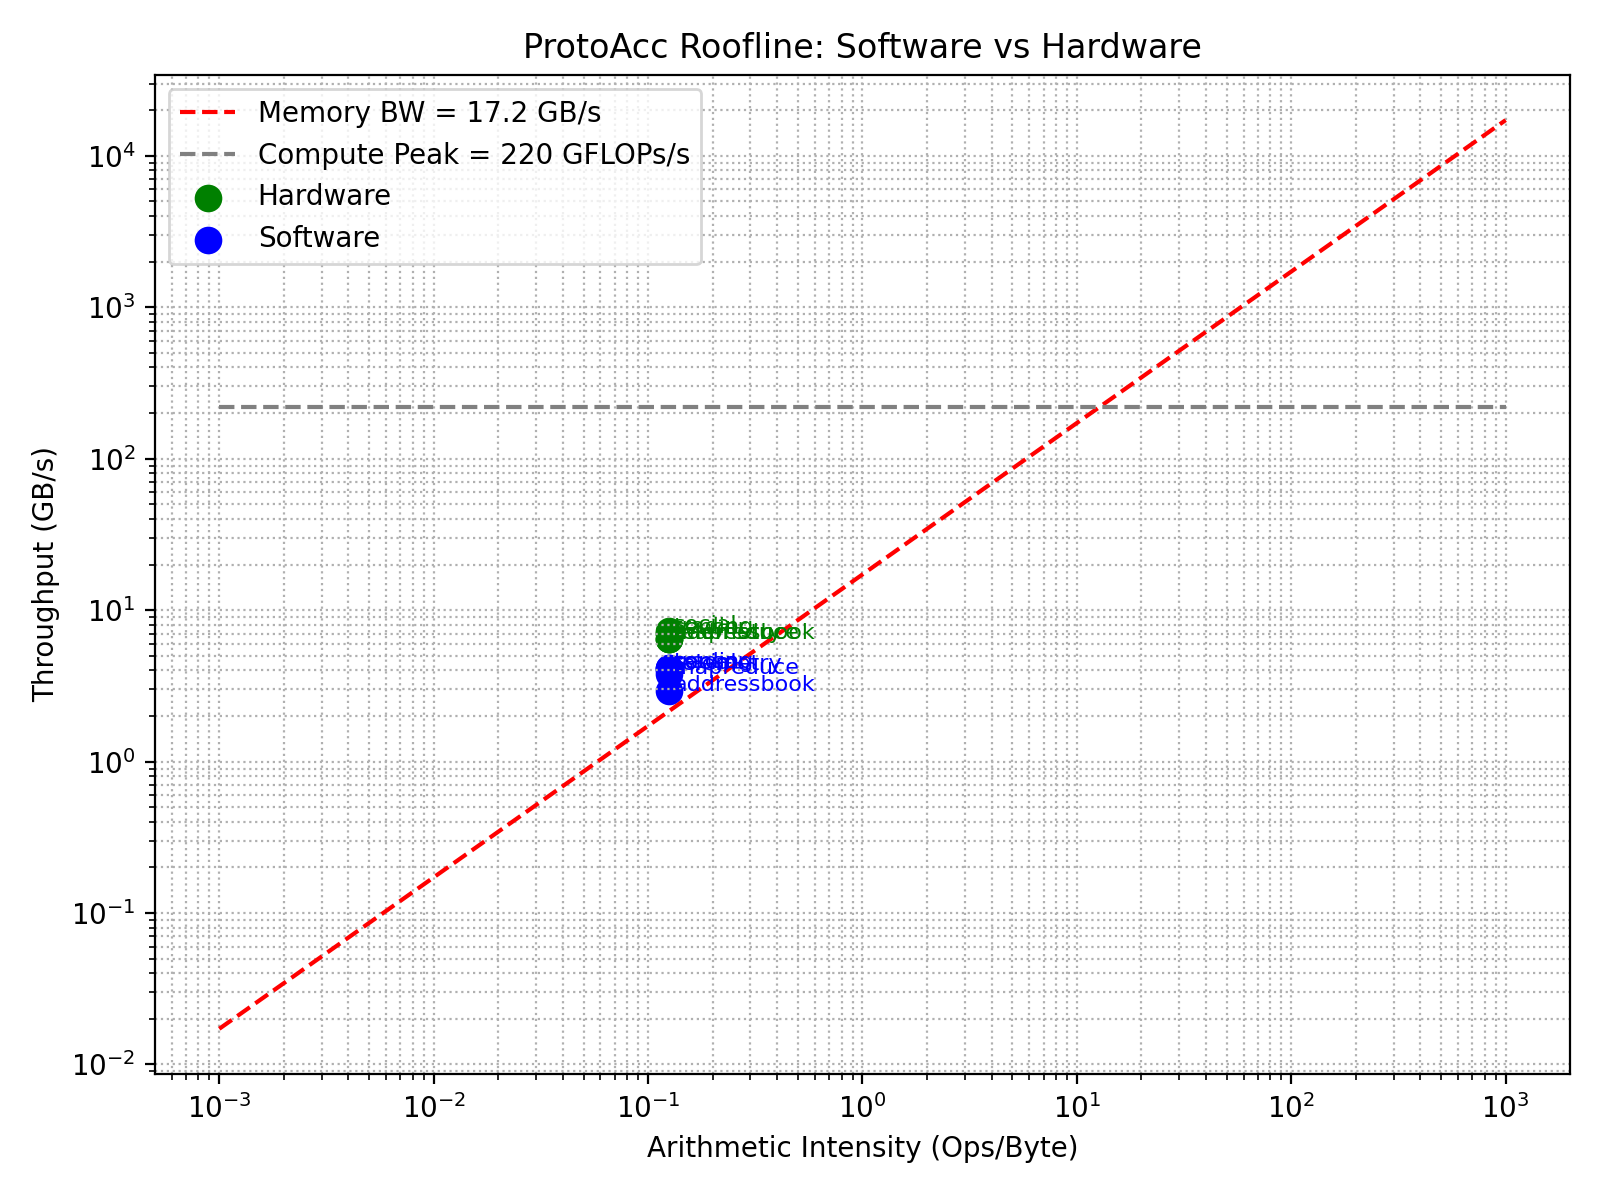
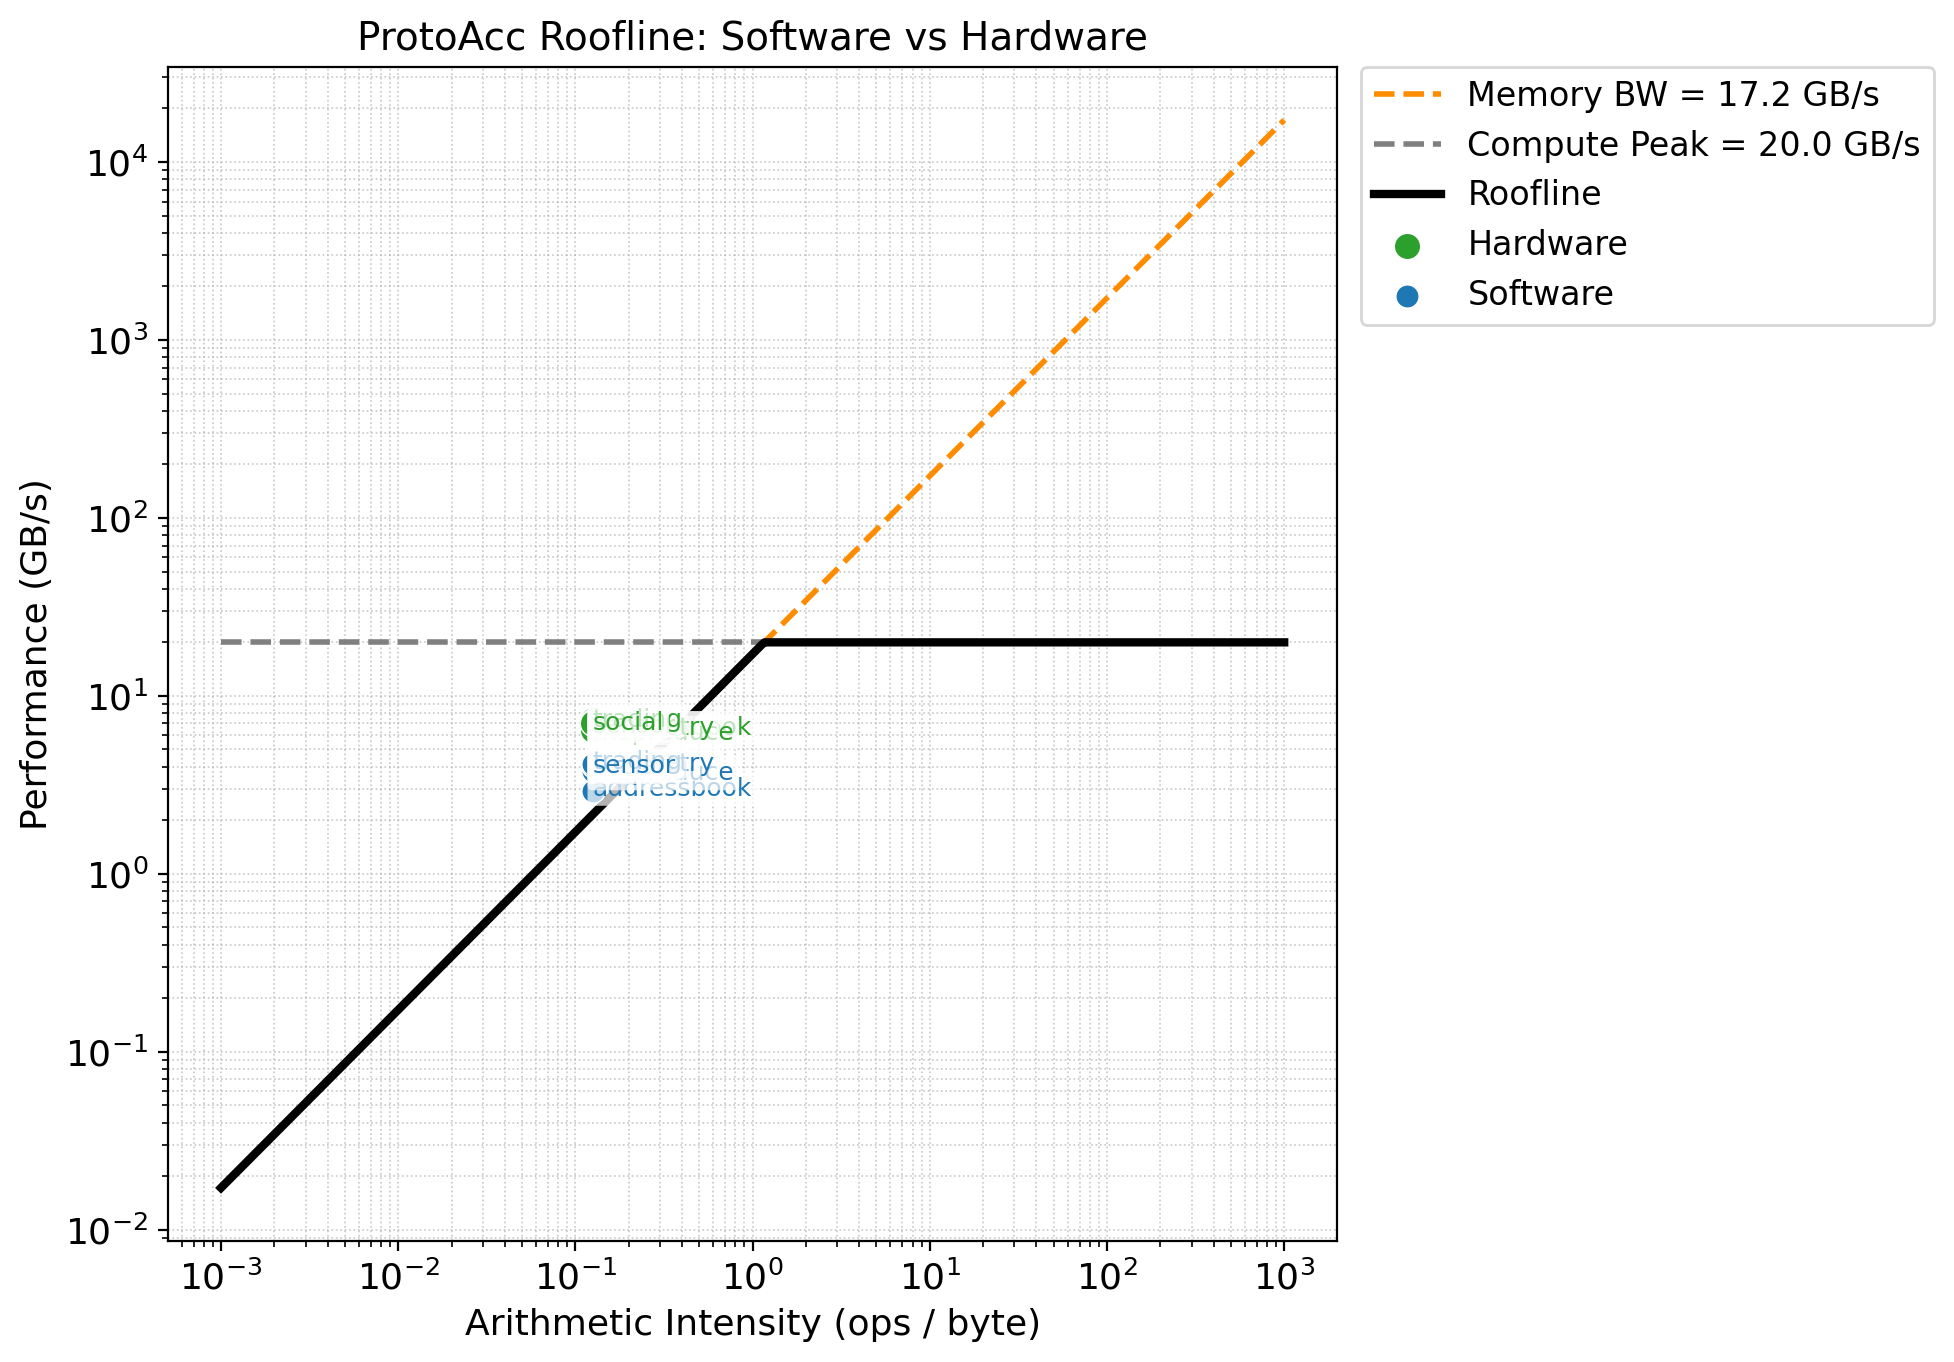
Improve roofline clarity: bold envelope, dashed ceilings, de-overlapped labels, higher DPI

diff --git a/artifact/protoacc/roofline_hwsw.py b/artifact/protoacc/roofline_hwsw.py
@@ -1,46 +1,127 @@
-import pandas as pd
+import json
 import numpy as np
+import pandas as pd
 import matplotlib.pyplot as plt
+from pathlib import Path
 
-sw_csv = "results/roofline_input.csv"
-hw_csv = "results/roofline_input_hw.csv"
+# ----------------------------
+# Inputs and defaults
+# ----------------------------
+root = Path(__file__).resolve().parent
+sw_csv = root / "results" / "roofline_input.csv"         # software baseline
+hw_csv = root / "results" / "roofline_input_hw.csv"      # hardware results (optional)
+ceilings_json = root / "results" / "ceilings.json"       # optional measured memory BW
 
-MEM_BW = 17.2
-COMP_PEAK = 220
+# Throughput units on Y axis are GB/s (not FLOPs/s).
+# Arithmetic Intensity (X) is ops/byte.
+MEM_BW_GBPS = 12.0
+COMP_PEAK_GBPS = 20.0
 
+# Override memory BW from measured ceiling if available
+if ceilings_json.exists():
+    try:
+        MEM_BW_GBPS = float(json.load(open(ceilings_json))["memory_bandwidth_gbps"])
+    except Exception:
+        pass
+
+# ----------------------------
+# Load data
+# ----------------------------
 sw = pd.read_csv(sw_csv)
 sw["type"] = "Software"
 try:
     hw = pd.read_csv(hw_csv)
     hw["type"] = "Hardware"
-    data = pd.concat([sw, hw])
+    data = pd.concat([sw, hw], ignore_index=True)
 except FileNotFoundError:
-    print("Warning: no hardware data file found, plotting software only.")
     data = sw
 
-plt.figure(figsize=(8, 6))
-ai = np.logspace(-3, 3, 100)
-bw_line = MEM_BW * ai
-plt.loglog(ai, bw_line, '--', label=f"Memory BW = {MEM_BW:.1f} GB/s", color="red")
-plt.hlines(COMP_PEAK, ai[0], ai[-1], linestyles='--', colors='gray',
-           label=f"Compute Peak = {COMP_PEAK:.0f} GFLOPs/s")
+# ----------------------------
+# Figure cosmetics
+# ----------------------------
+plt.rcParams.update({
+    "figure.figsize": (10, 7),
+    "figure.dpi": 200,
+    "font.size": 13,
+    "axes.labelsize": 13,
+    "axes.titlesize": 14,
+    "legend.fontsize": 12,
+    "lines.linewidth": 2.0,
+})
 
-colors = {"Software": "blue", "Hardware": "green"}
+fig, ax = plt.subplots()
+
+# ----------------------------
+# Roofline envelope and ceilings
+# ----------------------------
+ai = np.logspace(-3, 3, 400)  # ops/byte
+mem_line = MEM_BW_GBPS * ai                # GB/s
+comp_line = np.full_like(ai, COMP_PEAK_GBPS)
+
+# Draw ceilings as dashed guides
+ax.loglog(ai, mem_line, linestyle="--", color="#FF8C00",
+          label=f"Memory BW = {MEM_BW_GBPS:.1f} GB/s", zorder=2)
+ax.loglog(ai, comp_line, linestyle="--", color="#808080",
+          label=f"Compute Peak = {COMP_PEAK_GBPS:.1f} GB/s", zorder=2)
+
+# Draw the roofline envelope on top
+roof = np.minimum(mem_line, comp_line)
+ax.loglog(ai, roof, color="black", linewidth=3.0, label="Roofline", zorder=3)
+
+# ----------------------------
+# Scatter points
+# ----------------------------
+colors = {"Software": "#1f77b4", "Hardware": "#2ca02c"}  # blue, green
+markers = {"Software": "o", "Hardware": "o"}
+sizes = {"Software": 70, "Hardware": 90}
+
 for t, df in data.groupby("type"):
-    plt.scatter(df["ai"], df["th_gbps"], label=t, c=colors.get(t, "black"), s=80)
+    ax.scatter(df["ai"], df["th_gbps"],
+               c=colors.get(t, "black"), s=sizes.get(t, 70),
+               marker=markers.get(t, "o"), edgecolor="white", linewidths=0.5,
+               label=t, zorder=4)
 
-for _, r in sw.iterrows():
-    plt.text(r["ai"] * 1.05, r["th_gbps"], r["workload"], fontsize=8, color="blue")
+# ----------------------------
+# Optional point labels (de-overlapped)
+# ----------------------------
+def annotate_points(df, color, ystep=0.03):
+    # Sort by throughput and alternate small y-offsets to reduce overlap
+    if df.empty:
+        return
+    df = df.sort_values("th_gbps").reset_index(drop=True)
+    signs = np.array([1, -1] * ((len(df) + 1) // 2))[:len(df)]
+    for i, row in df.iterrows():
+        x = float(row["ai"])
+        y = float(row["th_gbps"])
+        # Offset in log space: convert a small additive offset on linear scale
+        # into a multiplicative factor on log scale
+        y_off = y * (1.0 + signs[i] * ystep)
+        ax.text(x, y_off, str(row["workload"]),
+                color=color, fontsize=9, ha="left", va="center",
+                bbox=dict(boxstyle="round,pad=0.2", fc="white", ec="none", alpha=0.7),
+                zorder=5)
 
-if "Hardware" in data["type"].unique():
-    for _, r in data[data["type"] == "Hardware"].iterrows():
-        plt.text(r["ai"] * 1.05, r["th_gbps"], r["workload"], fontsize=8, color="green")
+# Toggle this to False if you prefer no inline labels
+LABEL_POINTS = True
+if LABEL_POINTS:
+    annotate_points(sw, color=colors["Software"])
+    if "Hardware" in data["type"].unique():
+        annotate_points(data[data["type"] == "Hardware"], color=colors["Hardware"])
 
-plt.xlabel("Arithmetic Intensity (Ops/Byte)")
-plt.ylabel("Throughput (GB/s)")
-plt.title("ProtoAcc Roofline: Software vs Hardware")
-plt.legend()
-plt.grid(True, which="both", ls=":")
-plt.tight_layout()
-plt.savefig("results/roofline_hw_sw.png", dpi=200)
-print("Saved results/roofline_hw_sw.png")
+# ----------------------------
+# Axes, grid, legend
+# ----------------------------
+ax.set_xscale("log")
+ax.set_yscale("log")
+ax.set_xlabel("Arithmetic Intensity (ops / byte)")
+ax.set_ylabel("Performance (GB/s)")
+ax.set_title("ProtoAcc Roofline: Software vs Hardware")
+
+ax.grid(True, which="both", linestyle=":", linewidth=0.6, alpha=0.7)
+# Place legend outside for clarity
+leg = ax.legend(loc="upper left", bbox_to_anchor=(1.02, 1.0), borderaxespad=0.0)
+
+fig.tight_layout()
+out = root / "results" / "roofline_hw_sw.png"
+fig.savefig(out, bbox_inches="tight")
+print(f"Saved {out}")
